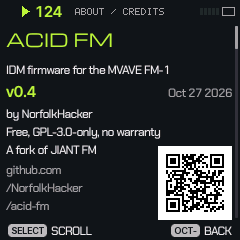
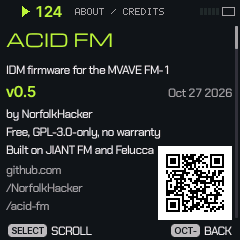
release prep: ACID FM 0.5 (SEQ, GLO, MIDI page)
v0.5 (felucca.c); README Status, landing page and the manual's 0.5 news; nav map
and nav.js at v0.5; device log section (checks pending); piece 3c-1's deferred list.

Changed region(s): [[0.0, 0.5833, 0.6417, 0.6417], [0.1167, 0.35, 0.1458, 0.4083]]

diff --git a/web/manual/nav.js b/web/manual/nav.js
@@ -1,3 +1,3 @@
 // SPDX-License-Identifier: GPL-3.0-only
 // GENERATED by tools/gen_manual.py from firmware/src/ui_lens.c (via tools/gen_nav_map.py): do not edit
-window.JNAV = {"version":"v0.4","sections":["HOME","EDIT","SEQ","FX","GLO","ENV","LFO","SCL","ARP","SAVE"],"chains":[{"sec":"HOME","ce":"CE_HOME","label":null,"groups":["TRACKS","VISUAL","GEN"],"pages":[{"name":"TRACKS","g":0,"on":true,"cond":false,"shot":"home"},{"name":"VISUAL","g":1,"on":false,"cond":false,"shot":"home_visual"},{"name":"GEN 1","g":2,"on":false,"cond":false,"shot":"gen_explore"},{"name":"GEN 2","g":2,"on":false,"cond":false,"shot":"gen_parts"},{"name":"GEN 3","g":2,"on":false,"cond":false,"shot":"gen_lead"}]},{"sec":"EDIT","ce":"CE_SYN","label":"SYNTHS","groups":["SOUND","TONE","VOICE/FILTER","MORE"],"pages":[{"name":"SOUND","g":0,"on":true,"cond":false,"shot":"edit_analog_1"},{"name":"TONE","g":1,"on":false,"cond":false,"shot":"edit_analog_2"},{"name":"VOICE","g":2,"on":false,"cond":true,"shot":"edit_analog_3"},{"name":"FILTER","g":2,"on":false,"cond":true,"shot":"edit_phase_3"},{"name":"MORE","g":3,"on":false,"cond":false,"shot":"edit_analog_more"}]},{"sec":"SEQ","ce":"CE_SEQ","label":null,"groups":["STEPS","STEP EXTRAS","PATTERN","MORE"],"pages":[{"name":"STEPS","g":0,"on":true,"cond":false,"shot":"seq_steps"},{"name":"STEP EXTRAS","g":1,"on":false,"cond":false,"shot":"seq_extras"},{"name":"PATTERN","g":2,"on":false,"cond":false,"shot":"seq_pattern"},{"name":"MORE","g":3,"on":false,"cond":false,"shot":"seq_more"}]},{"sec":"FX","ce":"CE_FX","label":null,"groups":["SENDS","SPACE","MASTER","MORE"],"pages":[{"name":"SENDS","g":0,"on":true,"cond":false,"shot":"fx_1"},{"name":"SPACE","g":1,"on":false,"cond":false,"shot":"fx_2"},{"name":"MASTER","g":2,"on":false,"cond":false,"shot":"fx_3"},{"name":"MORE","g":3,"on":false,"cond":false,"shot":"fx_more"}]},{"sec":"GLO","ce":"CE_GLO","label":null,"groups":["LIVE","MIX","MIDI","MORE"],"pages":[{"name":"LIVE","g":0,"on":true,"cond":false,"shot":"glo_live_tricks"},{"name":"MIX","g":1,"on":false,"cond":false,"shot":"glo_mix"},{"name":"MIDI","g":2,"on":false,"cond":false,"shot":"glo_midi"},{"name":"MORE","g":3,"on":false,"cond":false,"shot":"glo_more"}]},{"sec":"ENV","ce":"CE_ENV","label":null,"groups":["AMP","ENV TO"],"pages":[{"name":"AMP","g":0,"on":true,"cond":false,"shot":"env_1"},{"name":"ENV TO","g":1,"on":false,"cond":false,"shot":"env_2"}]},{"sec":"LFO","ce":"CE_LFO","label":null,"groups":["LFO","DEST","MOD MATRIX","MORE"],"pages":[{"name":"LFO","g":0,"on":true,"cond":false,"shot":"lfo_1"},{"name":"DEST","g":1,"on":false,"cond":false,"shot":"lfo_2"},{"name":"MOD MATRIX","g":2,"on":false,"cond":false,"shot":"lfo_3"},{"name":"MORE","g":3,"on":false,"cond":false,"shot":"lfo_more"}]},{"sec":"SCL","ce":"CE_SCL","label":null,"groups":["KEY","CHORD","MORE"],"pages":[{"name":"KEY","g":0,"on":true,"cond":false,"shot":"scl_1"},{"name":"CHORD","g":1,"on":false,"cond":false,"shot":"scl_2"},{"name":"MORE","g":2,"on":false,"cond":false,"shot":"scl_more"}]},{"sec":"ARP","ce":"CE_ARP","label":null,"groups":["ARP","ARP 2"],"pages":[{"name":"ARP","g":0,"on":true,"cond":false,"shot":"arp_1"},{"name":"ARP 2","g":1,"on":false,"cond":false,"shot":"arp_2"}]},{"sec":"SAVE","ce":"CE_SAVE","label":null,"groups":["SOUND","PROJECT","LIBRARY"],"pages":[{"name":"USER","g":0,"on":true,"cond":false,"shot":"save_sound"},{"name":"PRESETS","g":0,"on":false,"cond":false,"shot":"save_presets"},{"name":"SECTIONS","g":1,"on":false,"cond":false,"shot":"save_project"},{"name":"ARRANGE","g":1,"on":false,"cond":false,"shot":"save_arrange"},{"name":"PROJECTS","g":2,"on":false,"cond":false,"shot":"save_library"},{"name":"TOOLS","g":2,"on":false,"cond":false,"shot":"save_tools"}]},{"sec":"EDIT","ce":"CE_FM6","label":"FM6","groups":["SOUND","OPERATOR","OP ENV","MORE"],"pages":[{"name":"SOUND","g":0,"on":true,"cond":false,"shot":"edit_fm6_1"},{"name":"OPERATOR","g":1,"on":false,"cond":false,"shot":"edit_fm6_2"},{"name":"OP ENV","g":2,"on":false,"cond":false,"shot":"edit_fm6_3"},{"name":"MORE","g":3,"on":false,"cond":false,"shot":"edit_fm6_more"}]},{"sec":"EDIT","ce":"CE_DRM","label":"DRUM-X","groups":["KIT","SOUND","SOUND 2","MORE"],"pages":[{"name":"KIT","g":0,"on":true,"cond":false,"shot":"edit_drum_1"},{"name":"SOUND","g":1,"on":false,"cond":false,"shot":"edit_drum_2"},{"name":"SOUND 2","g":2,"on":false,"cond":false,"shot":"edit_drum_3"},{"name":"MORE","g":3,"on":false,"cond":false,"shot":"edit_drum_more"}]}],"words":{"rules":[{"k":"SELECT","t":"SELECT walks the pages","d":"One chain per section, a page a detent; it stops at the first and the last. No levels, no zoom."},{"k":"BUTTON","t":"The button: in, or on","d":"From elsewhere, the page you left there. Inside, the first page of the next group, round."},{"k":"PRESETS","t":"PRESETS loads presets","d":"The track's sounds everywhere, patterns in SEQ, the genre in GEN. Never a page, a track or a module."},{"k":"KNOB 1","t":"KNOB 1 picks","d":"The step, the bar, the slot, the stage, the operator, the kit's sound. The track is always ALGORITHM's."},{"k":"HOLD","t":"Hold = the layer","d":"A button held puts its shortcuts on the keys and knobs; ALGORITHM while held: MAP · KNOBS · STATE."},{"k":"SCREEN","t":"The screen says where","d":"Tabs on top: the groups, a dot a page. At the foot: SECTION · GROUP · page and n/N."}],"layers":[{"b":"HOME","d":"the MENU: SCREEN · AUDIO · MIDI · USB · SYSTEM (SELECT the pages, ALGORITHM the tabs, KNOB 1–4 the settings)"},{"b":"EDIT","d":"F3 INIT · G3 RECALL · DRUM: black keys 1–8 mute each sound"},{"b":"SEQ","d":"F3 CLEAR · G3 REVERSE · A3/B3 SHIFT · C4 RANDOM · D4 COOK · E4 BEAT · F4 CLR AUTO · D5 REVERT · G5 CLR STEP · REC: CLEAR ALL"},{"b":"FX","d":"punch-in: F3–A3 REPEAT · B3 GLITCH · C4 TAPE STOP · D4/E4 OCT · F4 ½ TEMPO · G4/A4 DEC · B4/C5 STUTTER · D5–F5 ATK+ ARP RANDOM · G#4 FREEZE · C#5 SHUFFLE · D#5 F#5 sweeps · knobs: macros (a glitcher held: its own)"},{"b":"GLO","d":"black 1–6 MUTE · F3–D4 SOLO · E4 unmute all · F4 TAP · A4 FREEZE · B4 REVERT ALL · G4 UNDO · PLAY restart · knobs: LEVEL"},{"b":"LFO","d":"KNOB 1–4 = M1–M4, latched · F3 new routes · G3 clear"},{"b":"SCL","d":"any key sets the ROOT"},{"b":"SAVE","d":"F3–B3 play A–D · C4–F4 store A–D · C5 NAME · D5 LOOP/SONG · E5 SONG REC · G5 ARRANGE"},{"b":"REC","d":"F3 CLEAR · G3 CLICK"}],"combos":[{"k":["HOME","SELECT"],"d":"GEN, the song generator"},{"k":["EDIT·SEQ·LFO·FX","SELECT"],"d":"their dice: BEFORE / NOW, keep or cancel"},{"k":["GLO","SELECT"],"d":"the tempo, from any page"},{"k":["ENV·SCL·ARP·SAVE","SELECT"],"d":"walk that chain from anywhere"},{"k":["ALGORITHM"],"d":"the track, always"},{"k":["SEQ","G5"],"d":"CLR STEP: the step and its locks"},{"k":["STEP HELD","SELECT"],"d":"the EDIT page its knobs lock (SEQ › STEPS)"},{"k":["SAVE","C5"],"d":"NAME: rename the slot, section, project"},{"k":["GLO","G4"],"d":"UNDO (again: redo)"},{"k":["OCT−","OCT+"],"d":"back / do it (NO / YES)"}],"hints":{"HOME":{"hold":"MENU","sel":"GEN"},"EDIT":{"hold":"INIT · RECALL","sel":"sound dice"},"SEQ":{"hold":"SEQ TOOLS","sel":"sequence dice"},"FX":{"hold":"punch-in FX","sel":"FX dice"},"GLO":{"hold":"mutes · solos · UNDO","sel":"tempo"},"ENV":{"hold":null,"sel":"walk this chain"},"LFO":{"hold":"MACROS M1–M4","sel":"LFO dice"},"SCL":{"hold":"ROOT on the keys","sel":"walk this chain"},"ARP":{"hold":null,"sel":"walk this chain"},"SAVE":{"hold":"sections live · NAME","sel":"walk this chain"}},"notes":{"HOME":"TRACKS → VISUAL → GEN: HOME again (round) or SELECT; HOME + SELECT straight to GEN. GEN 1–3: PRESETS the genre, OCT+ makes the piece, OCT− back to TRACKS.","SEQ":"PRESETS: the patterns (PHRASES). KNOB 1: all 64 steps on STEPS (a fast turn several); SELECT on the last cell: the next 16.","EDIT":"Synths: page 3 is VOICE on ANALOG, FILTER on the others; MORE lists the rest (KNOB 1 picks, KNOB 2 sets). FM6: KNOB 1 picks the operator on OPERATOR and OP ENV. DRUM-X: KNOB 1 picks the drum on SOUND and SOUND 2 (a key struck picks it too).","FX":"SENDS: the track's DISTORT and sends as bars; SPACE: the echoes and the reverb's tail; MASTER: the output's meter. MORE: DELAY, REVERB, CHORUS, SLICER, the PUNCH LANE (CHORUS and SLICER hidden with LOAD ECO).","SAVE":"From outside, USER and SECTIONS come with SAVE armed: SAVE · OCT+ · OCT+.","ARP":"ARP again: the other page. The picture: the notes it plays from C G E held.","SCL":"TRANSPOSE on MORE; ROTATE and SEQ PITCH on SEQ › MORE (and the layer). The picture: what each key plays.","ENV":"AMP: the envelope as it sounds; ENV TO: what that same envelope moves (FILTER, PITCH, SHAPE).","GLO":"Opens on LIVE: the keys play the tricks (white) on the tracks held (black), KNOB 4 the DJ FILTER. MIX: level bars in dB. MIDI: IN, OUT, CHANNEL of each track; CLOCK. MORE: the RAILS, SYSTEM, TEMPO, MIDI, UNDO.","LFO":"The picture: the wave running. KNOB 1 picks the slot on MOD MATRIX (a track each). MORE: PHASE, the STEPS (was MSEQ)."}}};
+window.JNAV = {"version":"v0.5","sections":["HOME","EDIT","SEQ","FX","GLO","ENV","LFO","SCL","ARP","SAVE"],"chains":[{"sec":"HOME","ce":"CE_HOME","label":null,"groups":["TRACKS","VISUAL","GEN"],"pages":[{"name":"TRACKS","g":0,"on":true,"cond":false,"shot":"home"},{"name":"VISUAL","g":1,"on":false,"cond":false,"shot":"home_visual"},{"name":"GEN 1","g":2,"on":false,"cond":false,"shot":"gen_explore"},{"name":"GEN 2","g":2,"on":false,"cond":false,"shot":"gen_parts"},{"name":"GEN 3","g":2,"on":false,"cond":false,"shot":"gen_lead"}]},{"sec":"EDIT","ce":"CE_SYN","label":"SYNTHS","groups":["SOUND","TONE","VOICE/FILTER","MORE"],"pages":[{"name":"SOUND","g":0,"on":true,"cond":false,"shot":"edit_analog_1"},{"name":"TONE","g":1,"on":false,"cond":false,"shot":"edit_analog_2"},{"name":"VOICE","g":2,"on":false,"cond":true,"shot":"edit_analog_3"},{"name":"FILTER","g":2,"on":false,"cond":true,"shot":"edit_phase_3"},{"name":"MORE","g":3,"on":false,"cond":false,"shot":"edit_analog_more"}]},{"sec":"SEQ","ce":"CE_SEQ","label":null,"groups":["STEPS","STEP EXTRAS","PATTERN","MORE"],"pages":[{"name":"STEPS","g":0,"on":true,"cond":false,"shot":"seq_steps"},{"name":"STEP EXTRAS","g":1,"on":false,"cond":false,"shot":"seq_extras"},{"name":"PATTERN","g":2,"on":false,"cond":false,"shot":"seq_pattern"},{"name":"MORE","g":3,"on":false,"cond":false,"shot":"seq_more"}]},{"sec":"FX","ce":"CE_FX","label":null,"groups":["SENDS","SPACE","MASTER","MORE"],"pages":[{"name":"SENDS","g":0,"on":true,"cond":false,"shot":"fx_1"},{"name":"SPACE","g":1,"on":false,"cond":false,"shot":"fx_2"},{"name":"MASTER","g":2,"on":false,"cond":false,"shot":"fx_3"},{"name":"MORE","g":3,"on":false,"cond":false,"shot":"fx_more"}]},{"sec":"GLO","ce":"CE_GLO","label":null,"groups":["LIVE","MIX","MIDI","MORE"],"pages":[{"name":"LIVE","g":0,"on":true,"cond":false,"shot":"glo_live_tricks"},{"name":"MIX","g":1,"on":false,"cond":false,"shot":"glo_mix"},{"name":"MIDI","g":2,"on":false,"cond":false,"shot":"glo_midi"},{"name":"MORE","g":3,"on":false,"cond":false,"shot":"glo_more"}]},{"sec":"ENV","ce":"CE_ENV","label":null,"groups":["AMP","ENV TO"],"pages":[{"name":"AMP","g":0,"on":true,"cond":false,"shot":"env_1"},{"name":"ENV TO","g":1,"on":false,"cond":false,"shot":"env_2"}]},{"sec":"LFO","ce":"CE_LFO","label":null,"groups":["LFO","DEST","MOD MATRIX","MORE"],"pages":[{"name":"LFO","g":0,"on":true,"cond":false,"shot":"lfo_1"},{"name":"DEST","g":1,"on":false,"cond":false,"shot":"lfo_2"},{"name":"MOD MATRIX","g":2,"on":false,"cond":false,"shot":"lfo_3"},{"name":"MORE","g":3,"on":false,"cond":false,"shot":"lfo_more"}]},{"sec":"SCL","ce":"CE_SCL","label":null,"groups":["KEY","CHORD","MORE"],"pages":[{"name":"KEY","g":0,"on":true,"cond":false,"shot":"scl_1"},{"name":"CHORD","g":1,"on":false,"cond":false,"shot":"scl_2"},{"name":"MORE","g":2,"on":false,"cond":false,"shot":"scl_more"}]},{"sec":"ARP","ce":"CE_ARP","label":null,"groups":["ARP","ARP 2"],"pages":[{"name":"ARP","g":0,"on":true,"cond":false,"shot":"arp_1"},{"name":"ARP 2","g":1,"on":false,"cond":false,"shot":"arp_2"}]},{"sec":"SAVE","ce":"CE_SAVE","label":null,"groups":["SOUND","PROJECT","LIBRARY"],"pages":[{"name":"USER","g":0,"on":true,"cond":false,"shot":"save_sound"},{"name":"PRESETS","g":0,"on":false,"cond":false,"shot":"save_presets"},{"name":"SECTIONS","g":1,"on":false,"cond":false,"shot":"save_project"},{"name":"ARRANGE","g":1,"on":false,"cond":false,"shot":"save_arrange"},{"name":"PROJECTS","g":2,"on":false,"cond":false,"shot":"save_library"},{"name":"TOOLS","g":2,"on":false,"cond":false,"shot":"save_tools"}]},{"sec":"EDIT","ce":"CE_FM6","label":"FM6","groups":["SOUND","OPERATOR","OP ENV","MORE"],"pages":[{"name":"SOUND","g":0,"on":true,"cond":false,"shot":"edit_fm6_1"},{"name":"OPERATOR","g":1,"on":false,"cond":false,"shot":"edit_fm6_2"},{"name":"OP ENV","g":2,"on":false,"cond":false,"shot":"edit_fm6_3"},{"name":"MORE","g":3,"on":false,"cond":false,"shot":"edit_fm6_more"}]},{"sec":"EDIT","ce":"CE_DRM","label":"DRUM-X","groups":["KIT","SOUND","SOUND 2","MORE"],"pages":[{"name":"KIT","g":0,"on":true,"cond":false,"shot":"edit_drum_1"},{"name":"SOUND","g":1,"on":false,"cond":false,"shot":"edit_drum_2"},{"name":"SOUND 2","g":2,"on":false,"cond":false,"shot":"edit_drum_3"},{"name":"MORE","g":3,"on":false,"cond":false,"shot":"edit_drum_more"}]}],"words":{"rules":[{"k":"SELECT","t":"SELECT walks the pages","d":"One chain per section, a page a detent; it stops at the first and the last. No levels, no zoom."},{"k":"BUTTON","t":"The button: in, or on","d":"From elsewhere, the page you left there. Inside, the first page of the next group, round."},{"k":"PRESETS","t":"PRESETS loads presets","d":"The track's sounds everywhere, patterns in SEQ, the genre in GEN. Never a page, a track or a module."},{"k":"KNOB 1","t":"KNOB 1 picks","d":"The step, the bar, the slot, the stage, the operator, the kit's sound. The track is always ALGORITHM's."},{"k":"HOLD","t":"Hold = the layer","d":"A button held puts its shortcuts on the keys and knobs; ALGORITHM while held: MAP · KNOBS · STATE."},{"k":"SCREEN","t":"The screen says where","d":"Tabs on top: the groups, a dot a page. At the foot: SECTION · GROUP · page and n/N."}],"layers":[{"b":"HOME","d":"the MENU: SCREEN · AUDIO · MIDI · USB · SYSTEM (SELECT the pages, ALGORITHM the tabs, KNOB 1–4 the settings)"},{"b":"EDIT","d":"F3 INIT · G3 RECALL · DRUM: black keys 1–8 mute each sound"},{"b":"SEQ","d":"F3 CLEAR · G3 REVERSE · A3/B3 SHIFT · C4 RANDOM · D4 COOK · E4 BEAT · F4 CLR AUTO · D5 REVERT · G5 CLR STEP · REC: CLEAR ALL"},{"b":"FX","d":"punch-in: F3–A3 REPEAT · B3 GLITCH · C4 TAPE STOP · D4/E4 OCT · F4 ½ TEMPO · G4/A4 DEC · B4/C5 STUTTER · D5–F5 ATK+ ARP RANDOM · G#4 FREEZE · C#5 SHUFFLE · D#5 F#5 sweeps · knobs: macros (a glitcher held: its own)"},{"b":"GLO","d":"black 1–6 MUTE · F3–D4 SOLO · E4 unmute all · F4 TAP · A4 FREEZE · B4 REVERT ALL · G4 UNDO · PLAY restart · knobs: LEVEL"},{"b":"LFO","d":"KNOB 1–4 = M1–M4, latched · F3 new routes · G3 clear"},{"b":"SCL","d":"any key sets the ROOT"},{"b":"SAVE","d":"F3–B3 play A–D · C4–F4 store A–D · C5 NAME · D5 LOOP/SONG · E5 SONG REC · G5 ARRANGE"},{"b":"REC","d":"F3 CLEAR · G3 CLICK"}],"combos":[{"k":["HOME","SELECT"],"d":"GEN, the song generator"},{"k":["EDIT·SEQ·LFO·FX","SELECT"],"d":"their dice: BEFORE / NOW, keep or cancel"},{"k":["GLO","SELECT"],"d":"the tempo, from any page"},{"k":["ENV·SCL·ARP·SAVE","SELECT"],"d":"walk that chain from anywhere"},{"k":["ALGORITHM"],"d":"the track, always"},{"k":["SEQ","G5"],"d":"CLR STEP: the step and its locks"},{"k":["STEP HELD","SELECT"],"d":"the EDIT page its knobs lock (SEQ › STEPS)"},{"k":["SAVE","C5"],"d":"NAME: rename the slot, section, project"},{"k":["GLO","G4"],"d":"UNDO (again: redo)"},{"k":["OCT−","OCT+"],"d":"back / do it (NO / YES)"}],"hints":{"HOME":{"hold":"MENU","sel":"GEN"},"EDIT":{"hold":"INIT · RECALL","sel":"sound dice"},"SEQ":{"hold":"SEQ TOOLS","sel":"sequence dice"},"FX":{"hold":"punch-in FX","sel":"FX dice"},"GLO":{"hold":"mutes · solos · UNDO","sel":"tempo"},"ENV":{"hold":null,"sel":"walk this chain"},"LFO":{"hold":"MACROS M1–M4","sel":"LFO dice"},"SCL":{"hold":"ROOT on the keys","sel":"walk this chain"},"ARP":{"hold":null,"sel":"walk this chain"},"SAVE":{"hold":"sections live · NAME","sel":"walk this chain"}},"notes":{"HOME":"TRACKS → VISUAL → GEN: HOME again (round) or SELECT; HOME + SELECT straight to GEN. GEN 1–3: PRESETS the genre, OCT+ makes the piece, OCT− back to TRACKS.","SEQ":"PRESETS: the patterns (PHRASES). KNOB 1: all 64 steps on STEPS (a fast turn several); SELECT on the last cell: the next 16.","EDIT":"Synths: page 3 is VOICE on ANALOG, FILTER on the others; MORE lists the rest (KNOB 1 picks, KNOB 2 sets). FM6: KNOB 1 picks the operator on OPERATOR and OP ENV. DRUM-X: KNOB 1 picks the drum on SOUND and SOUND 2 (a key struck picks it too).","FX":"SENDS: the track's DISTORT and sends as bars; SPACE: the echoes and the reverb's tail; MASTER: the output's meter. MORE: DELAY, REVERB, CHORUS, SLICER, the PUNCH LANE (CHORUS and SLICER hidden with LOAD ECO).","SAVE":"From outside, USER and SECTIONS come with SAVE armed: SAVE · OCT+ · OCT+.","ARP":"ARP again: the other page. The picture: the notes it plays from C G E held.","SCL":"TRANSPOSE on MORE; ROTATE and SEQ PITCH on SEQ › MORE (and the layer). The picture: what each key plays.","ENV":"AMP: the envelope as it sounds; ENV TO: what that same envelope moves (FILTER, PITCH, SHAPE).","GLO":"Opens on LIVE: the keys play the tricks (white) on the tracks held (black), KNOB 4 the DJ FILTER. MIX: level bars in dB. MIDI: IN, OUT, CHANNEL of each track; CLOCK. MORE: the RAILS, SYSTEM, TEMPO, MIDI, UNDO.","LFO":"The picture: the wave running. KNOB 1 picks the slot on MOD MATRIX (a track each). MORE: PHASE, the STEPS (was MSEQ)."}}};

diff --git a/web/manual/data.js b/web/manual/data.js
@@ -604,6 +604,13 @@ recipes: [
 
 // ------------------------------------------------------------------------------------------- what's new (README's changelog, digested)
 news: [
+  {v: "0.5", items: [
+    "0.5: SEQ, GLO and MIDI in the ACID look. SEQ is STEPS, STEP EXTRAS, PATTERN and MORE: STEP EXTRAS holds a step's chance, ratchet, condition and micro-timing; with a step held, MORE's rows lock on it (the ACID lock card).",
+    "GLO is LIVE, MIX, MIDI and MORE. LIVE is the performance page (rate, loop, thin, DJ filter and the keys' tricks); MIX has the six tracks' levels, pan and sends; MORE has the rest.",
+    "The MIDI page: per track MIDI in, out and channel; the clock INT, USB or TRS; clock out over USB; the keyboard plays the selected track. Older projects and settings load and sound as before.",
+    "SEQ TOOLS, REC and the GLO layer in the ACID look: each key shows its name and state.",
+    "Level bars in dB on LIVE, MIX and HOME.",
+    "The manual is English only and ACID FM's own."]},
   {v: "0.4", items: [
     "0.4: the sound sections in the ACID look: EDIT (a picture of the sound, four knobs and MORE for the rest), ENV, ARP, SCL, LFO and FX. Names in plain words; the creature pictures are gone.",
     "The held layers (EDIT, MACRO, FX, SCL) in the same look: the keys and knobs say what they do. With a step held, MORE's rows also keep their value on that step.",

diff --git a/web/landing/index.html b/web/landing/index.html
@@ -57,7 +57,7 @@
   <ol>
     <li>Pipeline: 0.1, the build proven to install and roll back</li>
     <li>Trim: engines chosen for IDM, the voice ceiling measured, room made for samples</li>
-    <li class="now">The ACID screen theme: 3a in 0.3 (new look, HOME, splash); 3b in 0.4 (the sound sections, IDM genres in GEN, a power-on demo); 3c next</li>
+    <li class="now">The ACID screen theme: 3a in 0.3 (new look, HOME, splash); 3b in 0.4 (the sound sections, IDM genres in GEN, a power-on demo); 3c-1 in 0.5 (SEQ, GLO and a MIDI page); 3c-2 next</li>
     <li>BREAK: load breakbeats from this site, chop and rearrange them on the device</li>
     <li>Sound: TAPE wow and flutter, 303-style accent and slide, new FM and drum voices</li>
     <li>The song generator: ACID, BRAINDANCE, DRILL'N'BASS, RETROBOC, AMBIENT, GLITCH</li>

diff --git a/web/manual/sw.js b/web/manual/sw.js
@@ -3,7 +3,7 @@
 // Portions Copyright (C) 2026 NorfolkHacker
 // The manual offline: its page, scripts and screens cached (network first for the page and scripts, so a new version
 // shows at once; cache first for the screens). Only the manual's own folder; the emulator needs the network.
-const CACHE = "acid-manual-v2";   /* (3c-1 task 10b: English only; a new name drops the old cache) */
+const CACHE = "acid-manual-v3";   /* (0.5 news; a new name drops the old cache) */
 const CORE = ["./", "index.html", "manual.js", "data.js", "nav.js"];
 self.addEventListener("install", (e) => { e.waitUntil(caches.open(CACHE).then((c) => c.addAll(CORE)).then(() => self.skipWaiting())); });
 self.addEventListener("activate", (e) => {

diff --git a/firmware/src/felucca.c b/firmware/src/felucca.c
@@ -39,7 +39,7 @@
 #define FELUCCA_ID "FM-1_900"    /* package identity (build.py: the .fwsc marker string) */
 #endif
 #ifndef FELUCCA_VERSION
-#define FELUCCA_VERSION "v0.4" /* ACID FM's (a fork of JIANT 0.9.18, on Felucca 1.1.5.1): the splash, the menu, the
+#define FELUCCA_VERSION "v0.5" /* ACID FM's (built on JIANT FM 0.9.18 and Felucca 1.1.5.1): the splash, the menu, the
                                 * console, the editor */
 #endif
 #if FELUCCA_OTA && !FELUCCA_FLASH

diff --git a/README.md b/README.md
@@ -8,9 +8,21 @@ the Rephlex catalogue.
 **[Try it in the browser](https://norfolkhacker.github.io/acid-fm/emu/)** ·
 **[Manual](https://norfolkhacker.github.io/acid-fm/manual/)**
 
-## Status: 0.4
+## Status: 0.5
 
-0.4 is the sound sections in the ACID look (piece 3b), on top of 0.3:
+0.5 is SEQ, GLO and MIDI in the ACID look (piece 3c-1), on top of 0.4:
+
+- SEQ is STEPS, STEP EXTRAS, PATTERN and MORE. STEP EXTRAS holds the chance, ratchet, condition and micro-timing of the
+  picked step; with a step held, MORE's rows lock on it (the ACID lock card).
+- GLO is LIVE, MIX, MIDI and MORE. LIVE is the performance page (rate, loop, thin, DJ filter, the keys' tricks); MIX is
+  the six tracks' levels, pan and sends; MORE holds the rest (rails, tempo, system, undo).
+- The MIDI page: per track MIDI in, out and channel; the clock INT, USB or TRS; clock out over USB; the keyboard plays
+  the selected track. Older settings and projects load as before.
+- SEQ TOOLS, REC and GLO layers (the held layers) in the ACID look, with the keys' names and states on the keys.
+- Level bars in dB on LIVE, MIX and HOME.
+- The manual is English only and ACID FM's own.
+
+Before that, 0.4 was the sound sections in the ACID look (piece 3b), on top of 0.3:
 
 - EDIT, ENV, ARP, SCL, LFO and FX in the ACID look: a picture of the sound, four knobs, and MORE for the rest, with
   names in plain words. The old creatures are removed.
@@ -21,7 +33,7 @@ the Rephlex catalogue.
 - The first time 0.4 starts, MENU › TRACKS switches to 6 once (the demo uses T5 and T6); a 4 picked after that stays.
 - HOME TRACKS: KNOB 1-3 are three tracks' levels, KNOB 4 the BPM.
 - Steadier timing: the screen draws more slowly when the audio is busy.
-- SEQ, GLO, SAVE, the MENU and the dialogs keep their inherited layouts in ACID colours until 3c.
+- SAVE, the MENU and the dialogs keep their inherited layouts in ACID colours until 3c-2.
 
 Before that, 0.3 was the new look (piece 3a, UI foundations), on top of 0.2:
 
@@ -40,12 +52,12 @@ The ACID FM features arrive in steps (see `docs/superpowers/specs/2026-10-24-aci
 
 1. Pipeline (0.1)
 2. Trim (0.2): engines for IDM, the voice ceiling measured, room made for samples
-3. The ACID screen theme (3a in 0.3: look, HOME, splash; 3b in 0.4: the sound sections; 3c next)
+3. The ACID screen theme (3a in 0.3: look, HOME, splash; 3b in 0.4: the sound sections; 3c-1 in 0.5: SEQ, GLO, MIDI; 3c-2 next)
 4. BREAK: load breakbeats from the web page, chop and rearrange them
 5. Sound: TAPE (wow, flutter, saturation), 303-style accent and slide, new FM and drum voices
 6. The song generator: ACID, BRAINDANCE, DRILL'N'BASS, RETROBOC, AMBIENT, GLITCH
 
-Parts of the manual still describe inherited features; it is rewritten as ACID FM's features land.
+The manual is ACID FM's own; it grows as ACID FM's features land.
 
 ## Built on
 

diff --git a/docs/acid-fm/device-log.md b/docs/acid-fm/device-log.md
@@ -67,3 +67,16 @@
 - Console under the CPU TEST song (worst case, ~11 min uptime): cpu_pct 50, audio_max 3277 us, audio_lost 0; the
   governor sheds voices as designed (per-page late blocks/s not read this time)
 - Proven commit: 041f010
+
+## 2026-10-27 — piece 3c-1, ACID FM 0.5 (SEQ, GLO, MIDI page)
+
+Pending (Step 2, run with the user; nothing below has been done yet):
+
+- Backup before (`softkey --port "ACID FM" --yes`, then `fm1_unbrick.py backup`): pending
+- Release build `./build.sh --release 0.5` on the clean HEAD, then `tools/fm1_install.py build/acid-fm-0.5.fwsc --port "ACID FM" --yes`: pending
+- Serial `status` (version v0.5, cpu_pct, audio_late): pending
+- No-manual checks: make step 5 a ratchet; make T5's notes play only every other bar; send T2 to MIDI channel 10; follow
+  the clock from USB; loop the last bar live and let it go: pending
+- CPU TEST song, late audio blocks per second on SEQ STEPS, GLO LIVE with tricks, and the MIDI page: pending
+- A DAW or second device on USB sending clock and notes: pending
+- Merge ff to main and push, on the user's go-ahead: pending
